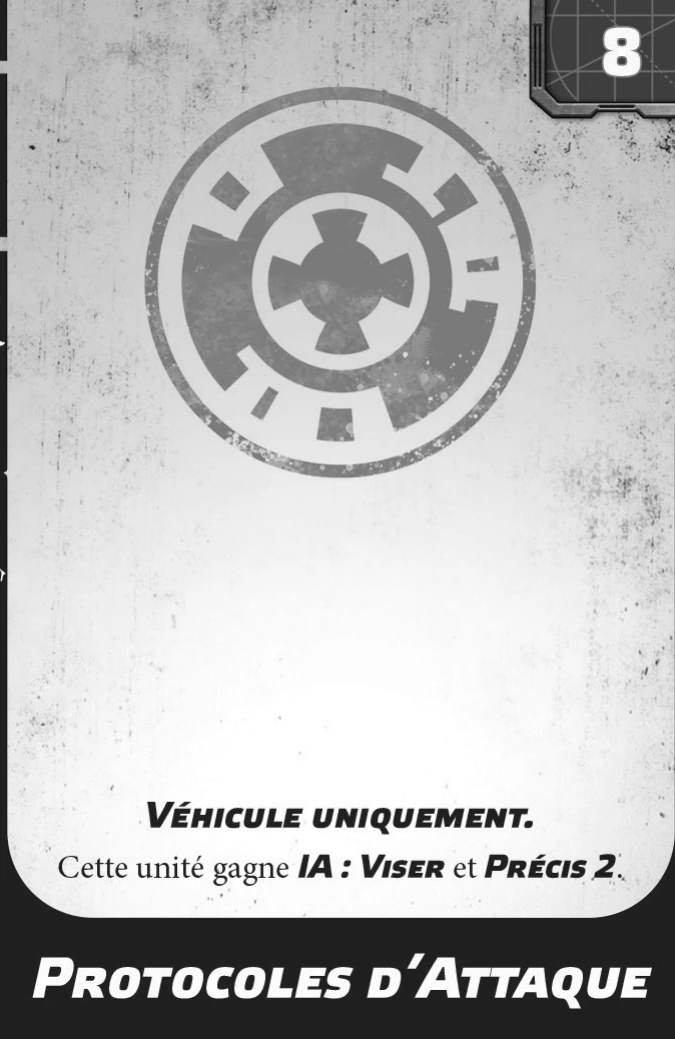
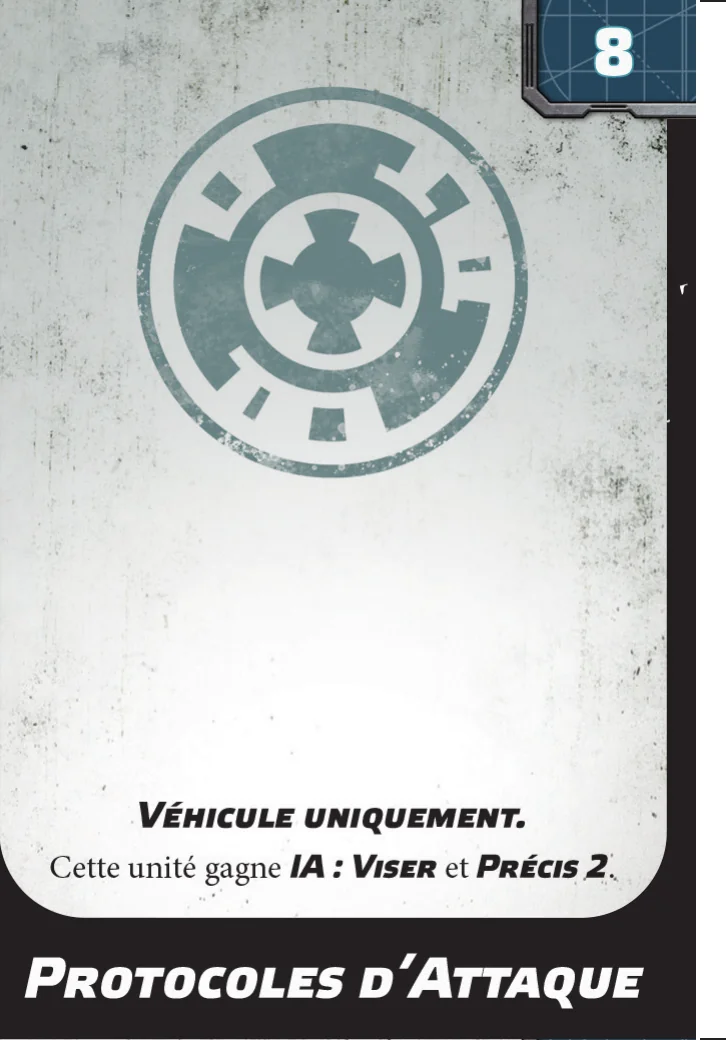
fix(cards-fr): recadrer 21 upgrades FR génériques (carte complète 726x1040, badge+titre visibles); fix(ui): police recherche 12sp + centrage vertical

diff --git a/app/src/main/java/com/legionforge/app/ui/screens/ArmyBuilderScreen.kt b/app/src/main/java/com/legionforge/app/ui/screens/ArmyBuilderScreen.kt
@@ -233,7 +233,7 @@ fun ArmyBuilderScreen(listId: String, onBack: () -> Unit, onPlayCard: (String, S
                 }
             } else {
                 Row(Modifier.fillMaxWidth().padding(horizontal = 14.dp, vertical = 2.dp), verticalAlignment = Alignment.CenterVertically, horizontalArrangement = Arrangement.spacedBy(8.dp)) {
-                    OutlinedTextField(value = search, onValueChange = { search = it }, modifier = Modifier.weight(1f).height(44.dp), placeholder = { Text(stringResource(R.string.search_hint), fontSize = 13.sp) }, singleLine = true, textStyle = MaterialTheme.typography.bodyMedium.copy(fontSize = 13.sp))
+                    OutlinedTextField(value = search, onValueChange = { search = it }, modifier = Modifier.weight(1f).height(40.dp), placeholder = { Text(stringResource(R.string.search_hint), fontSize = 12.sp) }, singleLine = true, textStyle = MaterialTheme.typography.bodyMedium.copy(fontSize = 12.sp, lineHeight = 16.sp))
                     // Bouton filtre compact à droite de la barre de recherche
                     Box {
                         Surface(onClick = { filtersMenuOpen = true }, shape = RoundedCornerShape(10.dp), color = if (filterRank != null || filterMaxPts != null || filterKeyword != null || collectionOnly) Color(0xFFFFC857) else Color(0xFF2A3A4A)) {

diff --git a/app/src/main/java/com/legionforge/app/ui/screens/SearchScreen.kt b/app/src/main/java/com/legionforge/app/ui/screens/SearchScreen.kt
@@ -48,11 +48,11 @@ fun SearchScreen(
             OutlinedTextField(
                 value = query,
                 onValueChange = { query = it; vm.searchCards(it) },
-                placeholder = { Text(stringResource(R.string.search_placeholder), color = Color(0xFF5A6A7A), fontSize = 13.sp) },
+                placeholder = { Text(stringResource(R.string.search_placeholder), color = Color(0xFF5A6A7A), fontSize = 12.sp) },
                 singleLine = true,
                 modifier = Modifier.fillMaxWidth(),
                 shape = RoundedCornerShape(12.dp),
-                textStyle = MaterialTheme.typography.bodyMedium.copy(fontSize = 13.sp)
+                textStyle = MaterialTheme.typography.bodyMedium.copy(fontSize = 12.sp, lineHeight = 16.sp)
             )
             when {
                 searching -> Box(Modifier.fillMaxWidth().padding(20.dp), contentAlignment = Alignment.Center) { CircularProgressIndicator(color = Color(0xFFFFC857), strokeWidth = 2.dp) }
